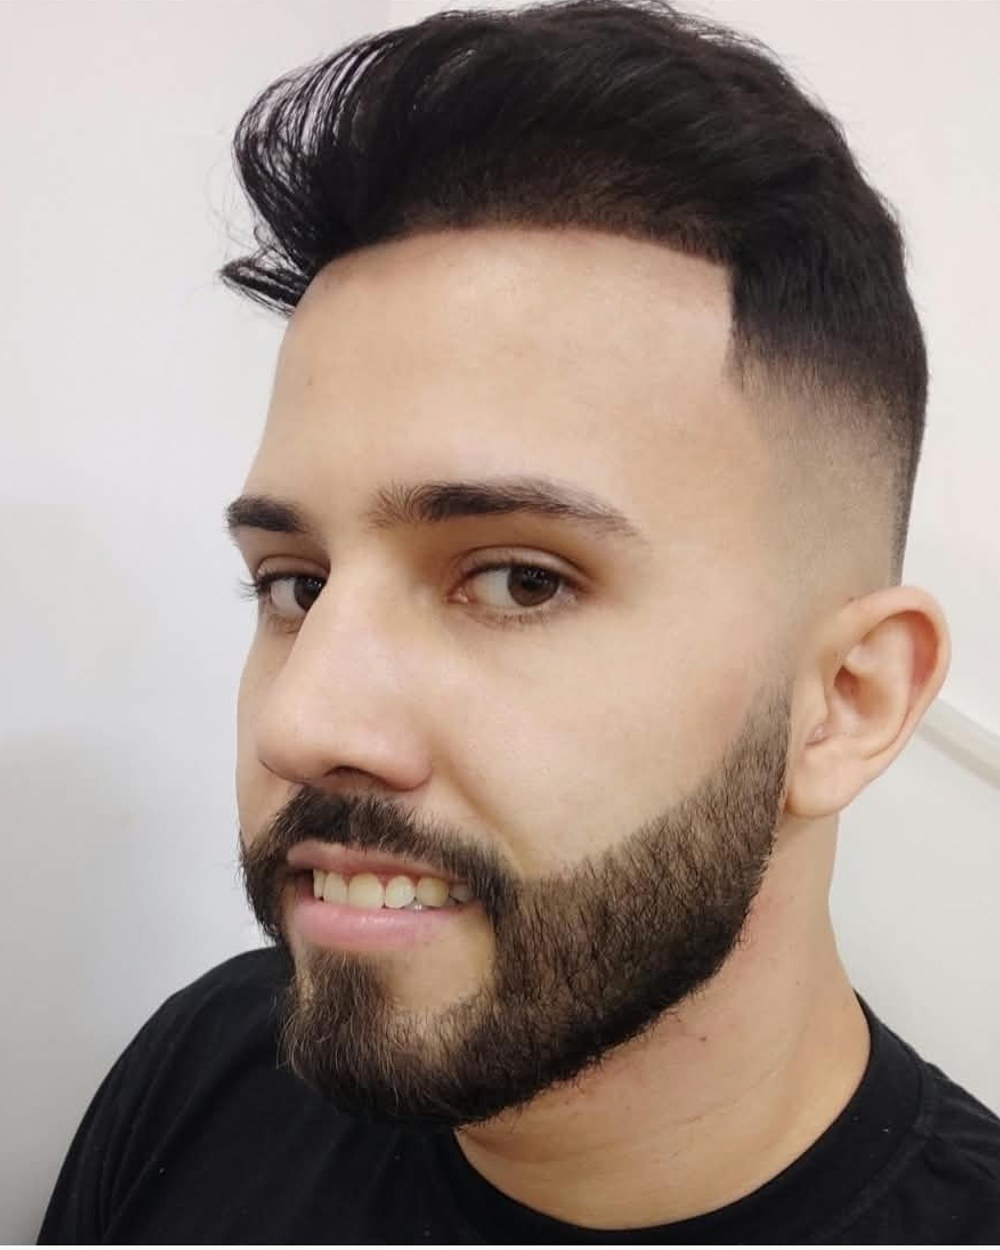
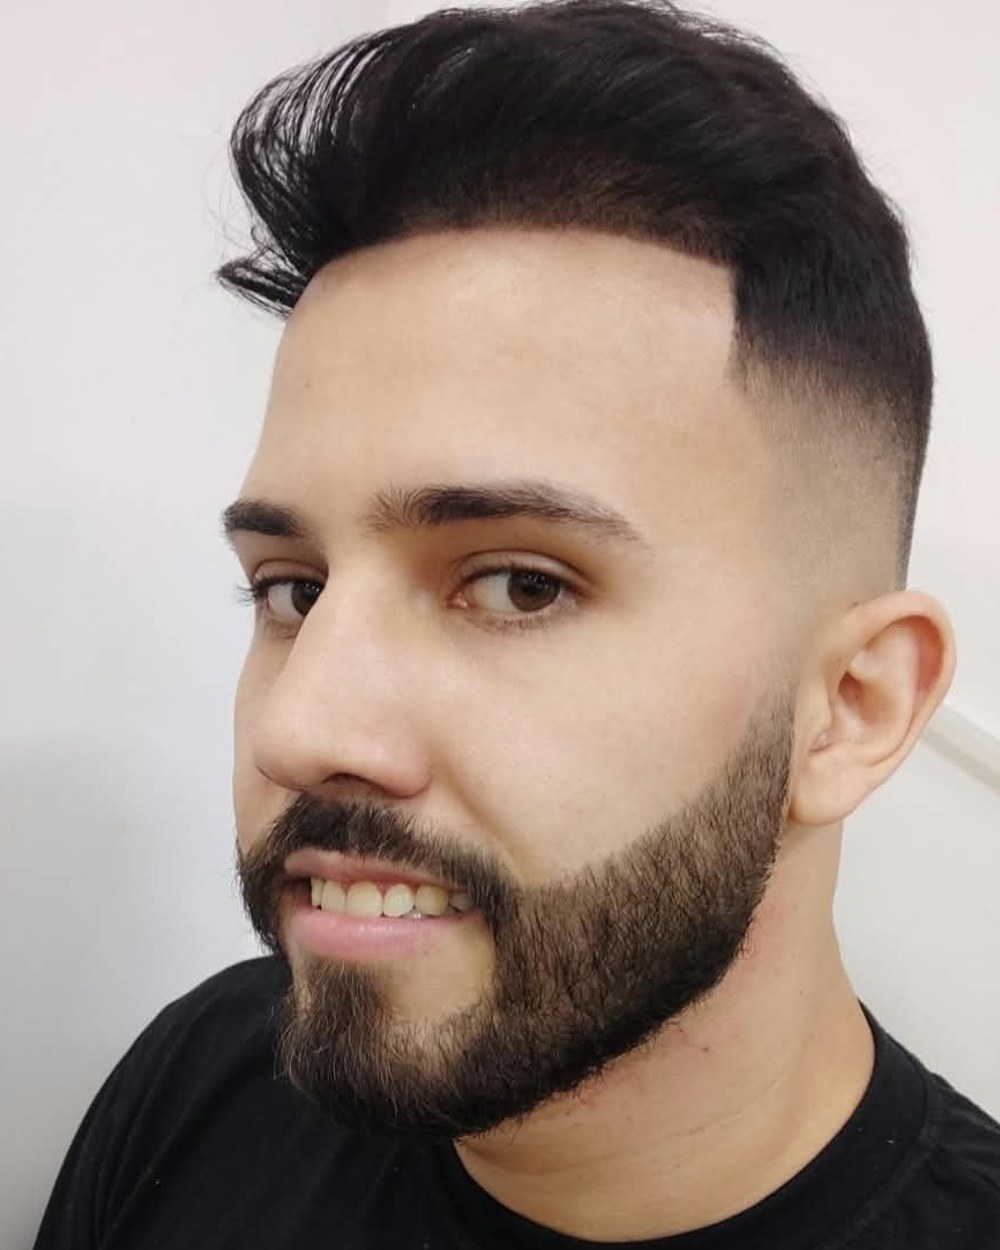
Remove borda branca da foto
Claude-Session: https://claude.ai/code/session_01SqiJbFrSHRTyJhppcD234m

diff --git a/index.html b/index.html
@@ -10,7 +10,7 @@
   <link href="https://cdn.jsdelivr.net/npm/bootstrap@5.3.8/dist/css/bootstrap.min.css" rel="stylesheet">
   <link href="https://cdn.jsdelivr.net/npm/bootstrap-icons@1.11.3/font/bootstrap-icons.min.css" rel="stylesheet">
   <link href="https://fonts.googleapis.com/css2?family=Playfair+Display:wght@500;700&family=Inter:wght@300;400;600&display=swap" rel="stylesheet">
-  <link href="css/style.css?v=4" rel="stylesheet">
+  <link href="css/style.css?v=5" rel="stylesheet">
 </head>
 <body data-bs-spy="scroll" data-bs-target="#menu" data-bs-offset="80">
 
@@ -65,7 +65,7 @@
       <div class="row align-items-center g-5">
         <div class="col-lg-6 reveal">
           <div class="about-img">
-            <img src="images/guga.jpg" loading="lazy" alt="Guga, barbeiro da Área Vip Barbearia" onerror="this.parentElement.classList.add('no-img'); this.remove();">
+            <img src="images/guga.jpg?v=5" loading="lazy" alt="Guga, barbeiro da Área Vip Barbearia" onerror="this.parentElement.classList.add('no-img'); this.remove();">
             <div class="about-badge"><strong>VIP</strong><span>atendimento<br>exclusivo</span></div>
           </div>
         </div>
@@ -236,6 +236,6 @@
   <button id="toTop" class="to-top" aria-label="Voltar ao topo"><i class="bi bi-arrow-up"></i></button>
 
   <script src="https://cdn.jsdelivr.net/npm/bootstrap@5.3.8/dist/js/bootstrap.bundle.min.js"></script>
-  <script src="js/main.js?v=4"></script>
+  <script src="js/main.js?v=5"></script>
 </body>
 </html>
